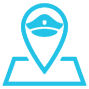
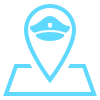
actualizacion iconos

Changed region(s): [[0.2247, 0.0225, 0.764, 0.8315], [0.0225, 0.6292, 0.9888, 0.9663]]

diff --git a/index.html b/index.html
@@ -585,20 +585,13 @@
 
 			<div class="contenido-accion">
 
-				
-		
-
-
-
 		<!-- start content_slider  you tube  -->
 			 <div class="slider">
 				   <div id="da-slider" class="da-slider">
 
 					<div class="da-slide">
 						
-
-					  <div class="da-img">   <a href=""> <img src="images/barras.png" class="img-youtube" alt=" " /> </a></div>
-					  
+					  <div class="da-img">   <a href=""> <img src="images/placa.png" class="img-responsive" alt=" " /> </a></div>
 
 					  <div class="slide-text">
 						<p class="p_negro">Visita nuestro el canal oficial de You Tube el cual muestra el desempeño de la aplicación previniendo el robo de vehículo.</p>
@@ -606,7 +599,7 @@
 					 
 					</div>
 					<div class="da-slide">
-					  <div class="da-img"> <a href="#" target=”_blank”> <img src="images/barra-grafica.png"   class="img-responsive" alt=" " />  </a> </div>
+					  <div class="da-img"> <a href="#" target=”_blank”> <img src="images/barra-grafica.png" class="img-responsive"  alt=" " />  </a> </div>
 					  <div class="slide-text">
 						  <p class="p_negro">Con la implemetacion de GES en el bosque de tlahuac redujo delitos y aumento la seguridad </p>
 					  </div>
@@ -616,7 +609,7 @@
 					<div class="da-slide">
 					  <div class="da-img">  <a href=""> <img src="images/card.png"  class="img-responsive" alt=" " /> </a> </div>
 					  <div class="slide-text">
-						  <p class="p_negro">Efectiva prevención para vehiculos y motosicletas </p>
+						  <p class="p_negro">Visita nuestro el canal oficial de You Tube el cual muestra el desempeño de la aplicación previniendo el robo de vehículo.</p>
 					  </div>
 					  <div class="clear"></div>
 					</div>
@@ -700,7 +693,7 @@
 								<div class="da-slide">
 								  <div class="da-img"><img src="images/cuadrantes.png" class="img-responsive" alt=" " /></div>
 								  <div class="slide-text">
-									 <p>En la Ciudad de México puedes configurar tu App al número de tu commandante de cuadrante</p>
+									 <p>En la Ciudad de México puedes configurar tu App al número de tu comandante de cuadrante</p>
 								  </div>
 								  <div class="clear"></div>
 								</div>

diff --git a/css/theme-style.css b/css/theme-style.css
@@ -421,8 +421,8 @@ nav a#pull {
 .titulo-container{
 	width: 100%;
 	padding: 50px 0;
-	background: linear-gradient( #5fd9fe 90% ,#FFFFFF);
-	/*background: linear-gradient( #5fd9fe 70% ,#FFFFFF);*/
+	background: #5fd9fe;
+	
 }
 
 .titulo-container h1 {
@@ -1231,12 +1231,6 @@ border-radius: 1em;
   }
   
 
-
-
-
-
-
-
 .head-para{
 	width: 80%;
 	margin: 1em 0 0.5em;
@@ -1336,7 +1330,6 @@ p.img_slider{
   
 
 .logo-back:hover{
-	
 		-webkit-transform: rotateY(180deg);
 		-webkit-transform-style: preserve-3d;
 		transform: rotateY(180deg);
@@ -1367,16 +1360,6 @@ p.img_slider{
 }
 
 
-
-
-
-
-
-
-
-
-
-
 /*------ start-feature----*/
 .feature{
 	background: linear-gradient( #5fd9fe 98% ,#FFFFFF);
@@ -1388,7 +1371,6 @@ p.img_slider{
 }
 
 .feature p {
-	
 	line-height: 1.6;
     font-size: 1.2em;
 	
@@ -1398,8 +1380,7 @@ p.img_slider{
 	color:#5fd9fe;
 }
 p.img_slider1{
-	width:100%;
-	
+	width:100%;	
 }
 
 .feature-right span{
@@ -1408,7 +1389,6 @@ p.img_slider1{
 	display:block;
 	background:url(../images/share-divice.png) no-repeat 0px 0px;
 }
-
 
 .feature-right span:hover {
 	-webkit-transform: rotateY(180deg);
@@ -1422,7 +1402,6 @@ p.img_slider1{
 
 /* loader11 */
 .container11 {
-	
 	margin: 0 0 30px 0  ;
 }
   
